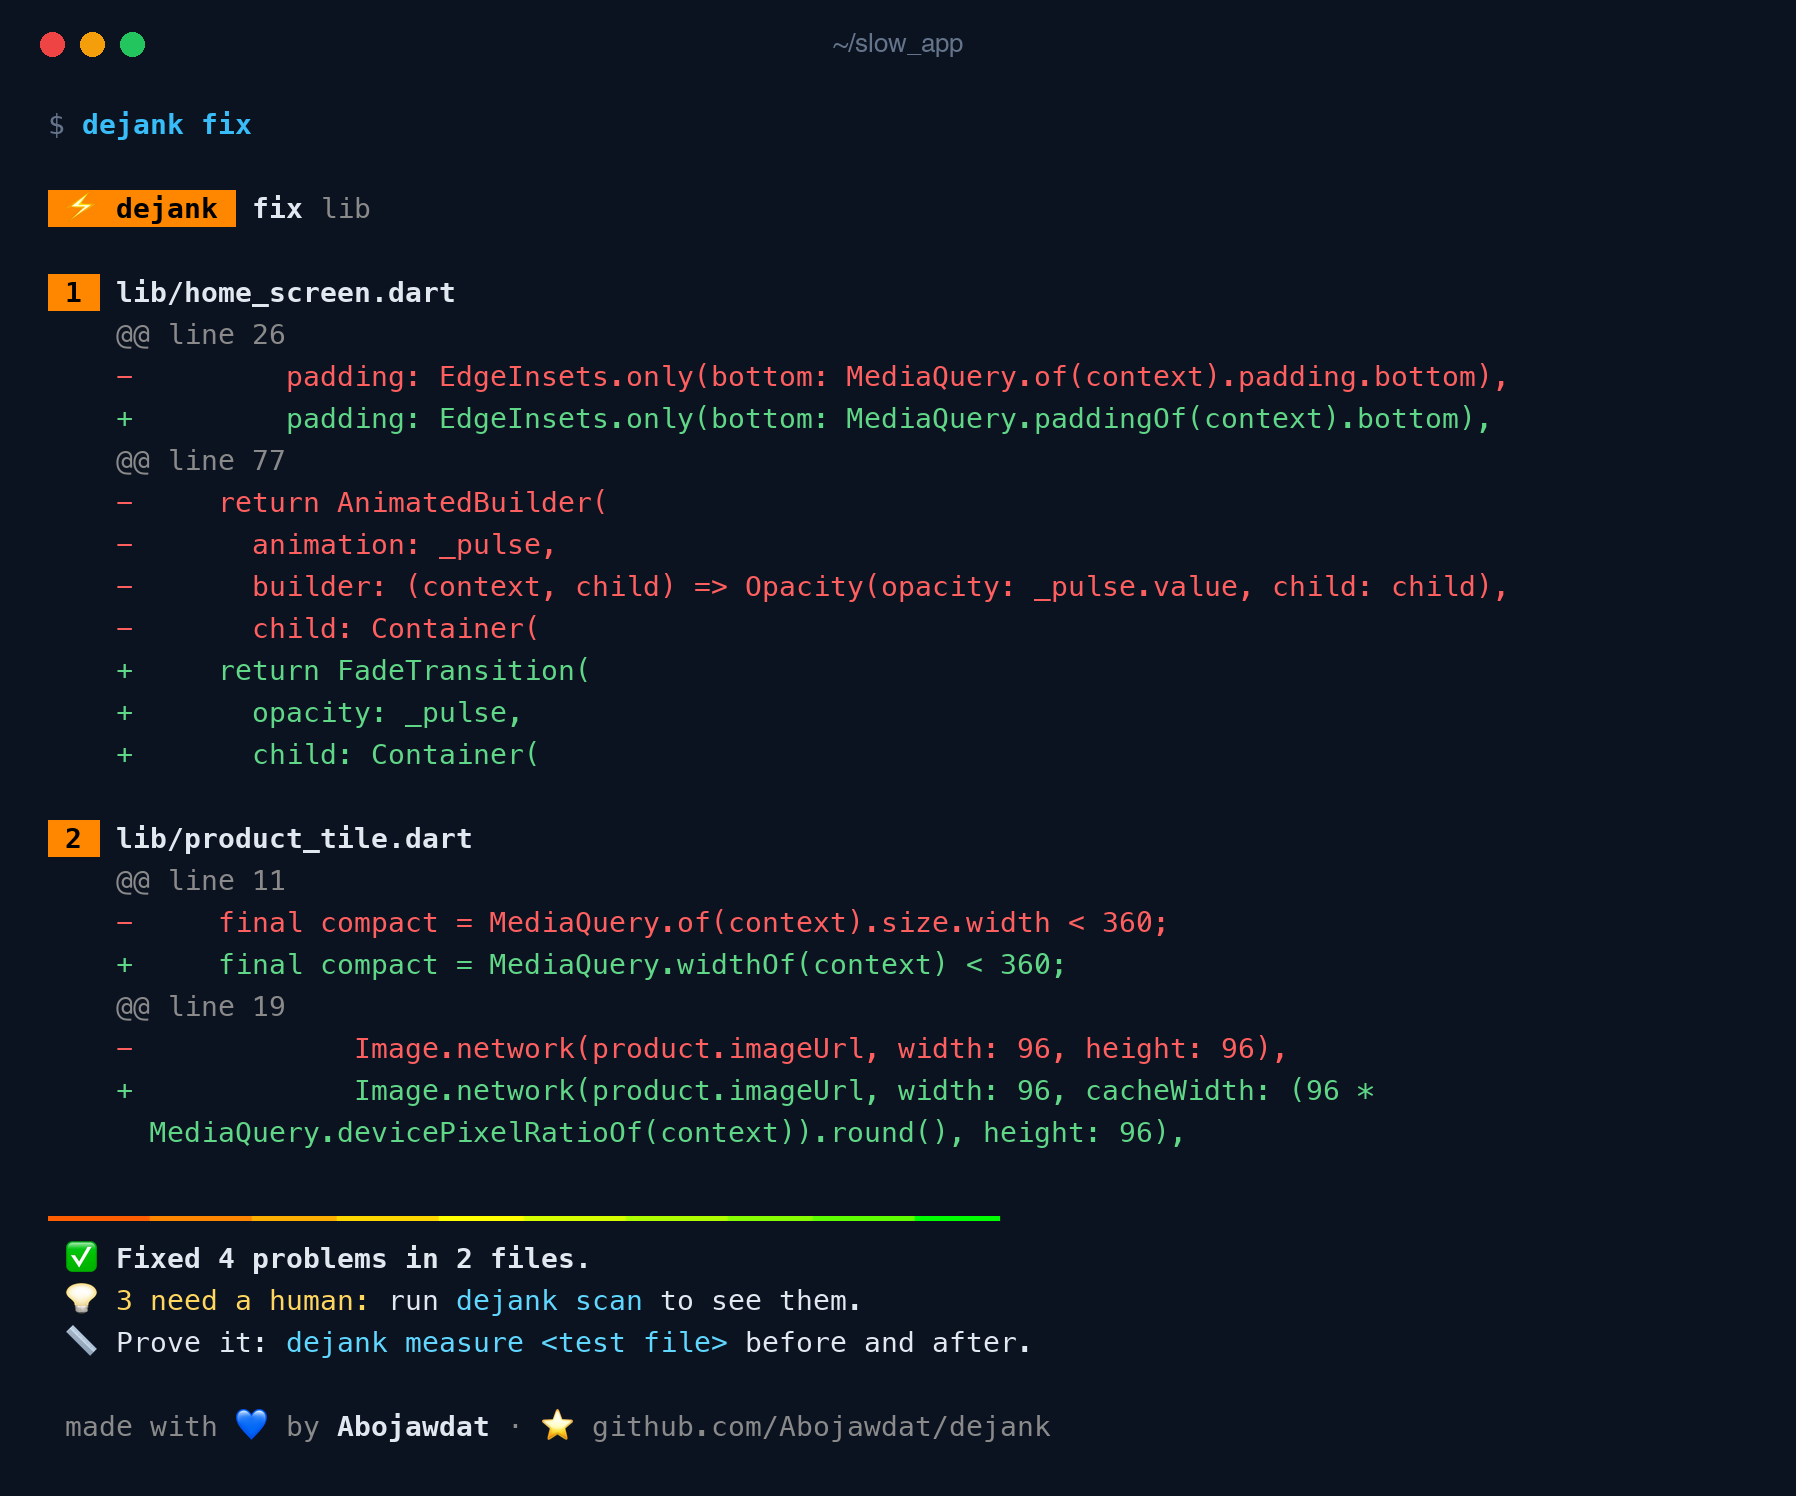
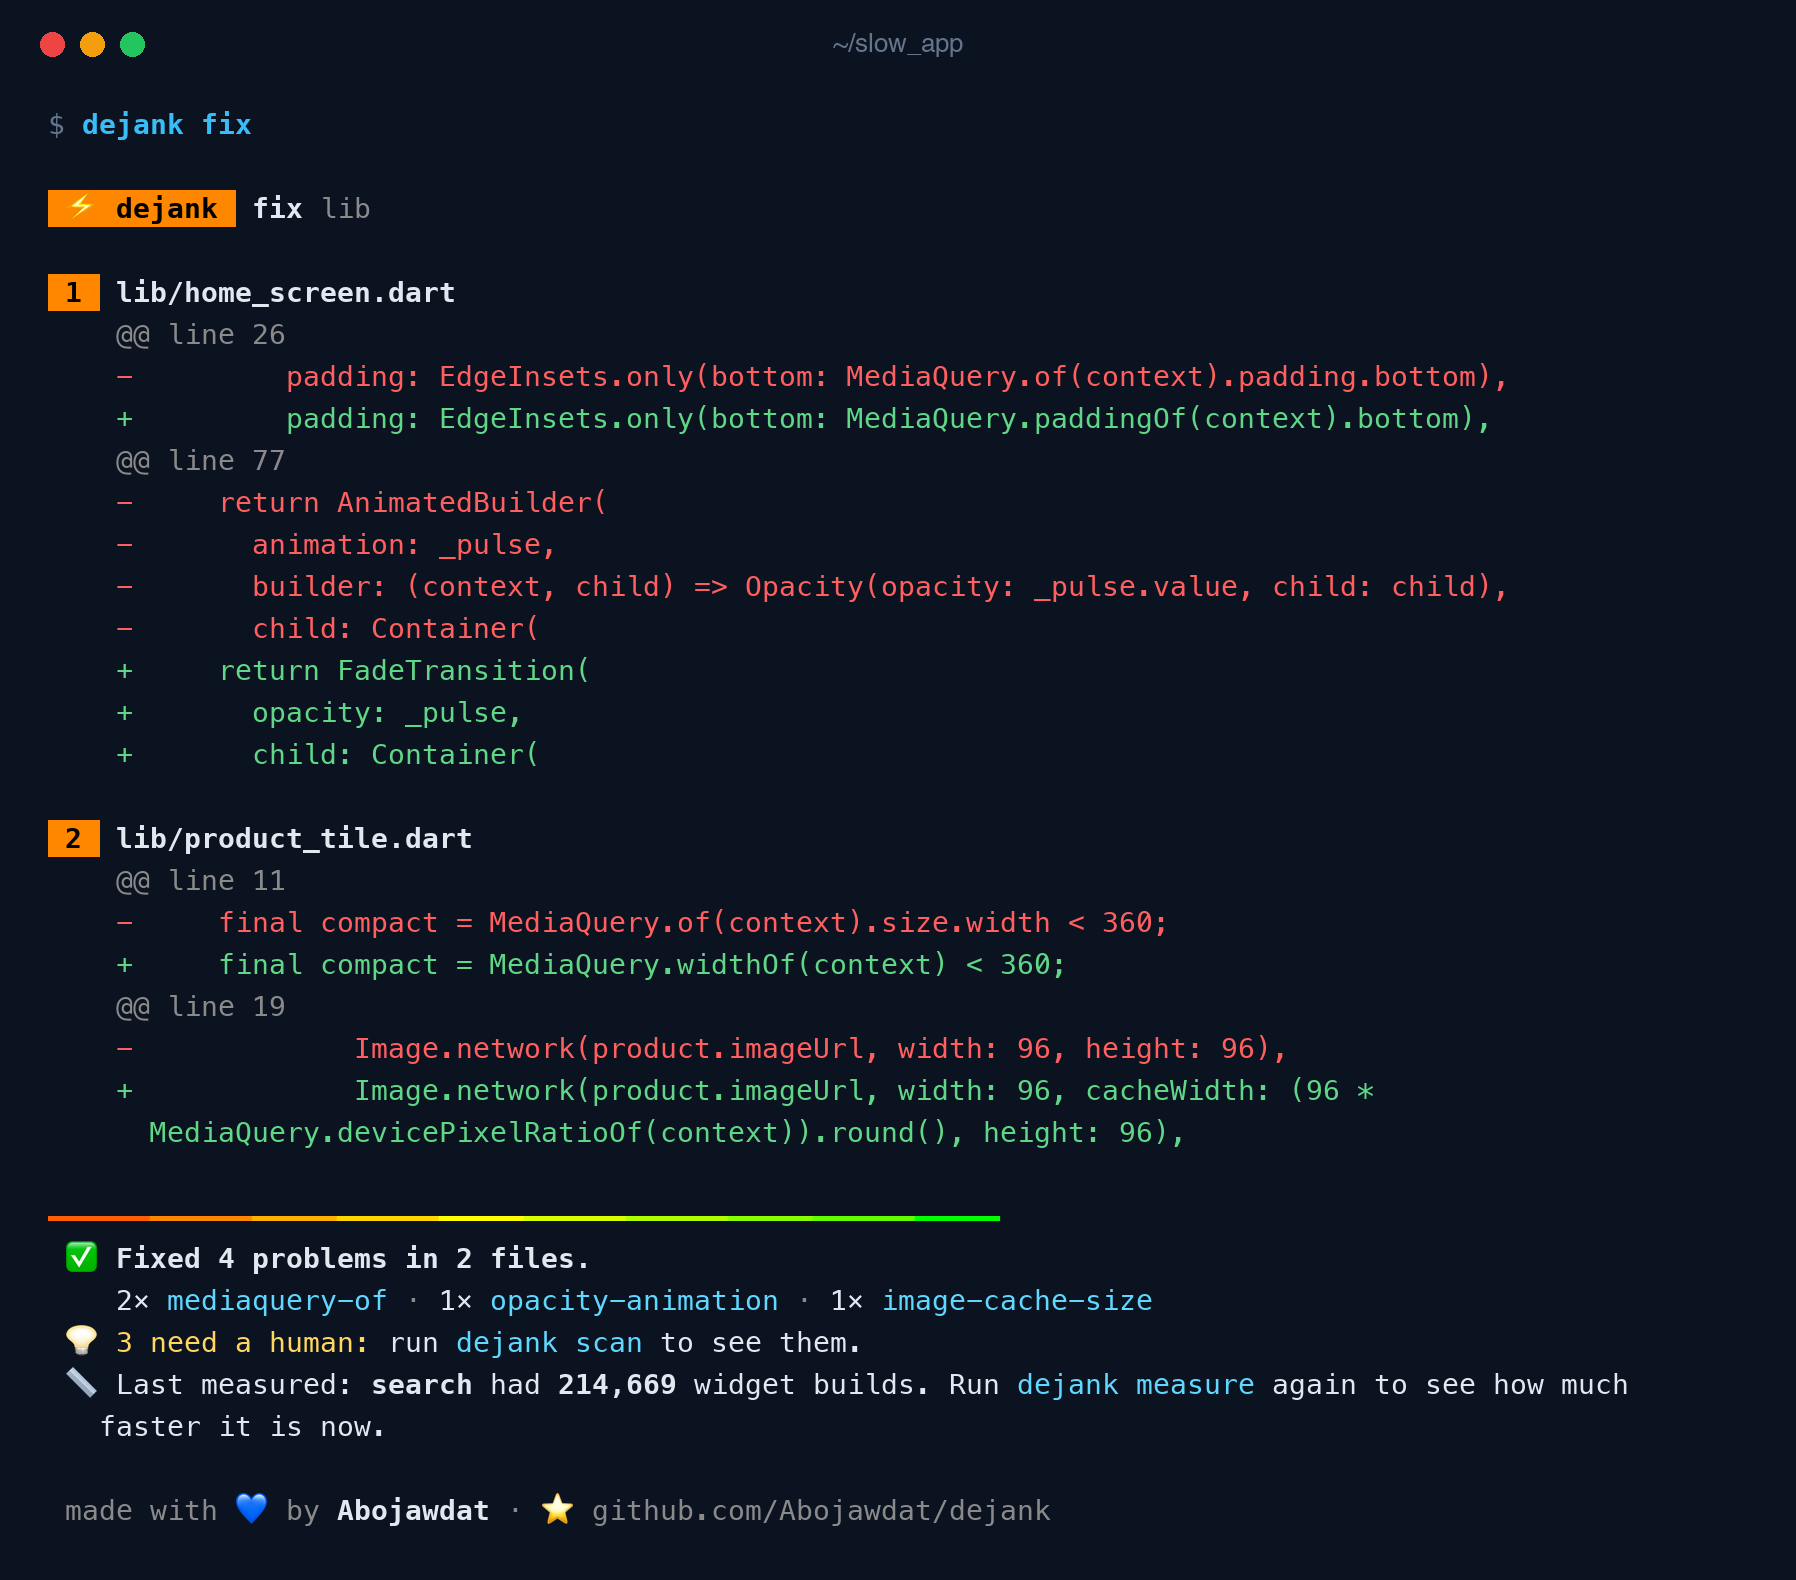
show stats in scan and fix

diff --git a/bin/dejank.dart b/bin/dejank.dart
@@ -64,6 +64,8 @@ class ScanCommand extends Command<void> {
         ' 🔎 ${_bold(_count(report.findings.length, 'problem'))}   🔧 ${_green('$auto auto-fixable')}   '
         '💡 ${_amber('$suggest need a human')}',
       );
+      final high = report.findings.where((f) => f.rule.impact == 'high').length;
+      print(' 🔴 ${_bold('$high')} high impact   🟡 ${_bold('${report.findings.length - high}')} medium impact');
       if (auto > 0) print(' 👉 Run ${_cyan('dejank fix')} to fix ${auto == 1 ? 'it' : 'those $auto'} now.');
     }
     _credit();
@@ -97,6 +99,7 @@ class FixCommand extends Command<void> {
     final broken = await wouldBreak(report, after);
     final dryRun = argResults!.flag('dry-run');
     var fixed = 0, files = 0;
+    final rules = <String, int>{};
     for (final MapEntry(key: path, value: findings) in byFile.entries) {
       if (broken.contains(path)) {
         stderr.writeln('Skipped ${p.relative(path)}: the fix would break it. This is a dejank bug, please report it.');
@@ -104,6 +107,9 @@ class FixCommand extends Command<void> {
       }
       if (!dryRun) File(path).writeAsStringSync(after[path]!);
       fixed += findings.length;
+      for (final f in findings) {
+        rules[f.rule.name] = (rules[f.rule.name] ?? 0) + 1;
+      }
       files++;
       final changes = diff(before[path]!, [for (final f in findings) ...f.edits]);
       if (!_fancy) {
@@ -139,8 +145,21 @@ class FixCommand extends Command<void> {
           ? ' ✨ ${_bold('Nothing to fix automatically.')}'
           : ' ✅ ${_bold('Fixed $summary.')}',
     );
+    if (rules.isNotEmpty) print('    ${rules.entries.map((e) => '${e.value}× ${_cyan(e.key)}').join(_dim(' · '))}');
     if (suggest > 0) print(' 💡 ${_amber('$suggest need a human:')} run ${_cyan('dejank scan')} to see them.');
-    if (fixed > 0 && !dryRun) print(' 📏 Prove it: ${_cyan('dejank measure <test file>')} before and after.');
+    if (fixed > 0 && !dryRun) {
+      final saved = Directory('.dejank').existsSync()
+          ? Directory('.dejank').listSync().whereType<File>().where((f) => f.path.endsWith('.json')).toList()
+          : <File>[];
+      if (saved.isEmpty) print(' 📏 Prove it: ${_cyan('dejank measure <test file>')} before and after.');
+      for (final f in saved) {
+        final run = Run.fromJson(jsonDecode(f.readAsStringSync()) as Map<String, dynamic>);
+        print(
+          ' 📏 Last measured: ${_bold(p.basenameWithoutExtension(f.path))} had ${_bold(thousands(run.total))} widget builds. '
+          'Run ${_cyan('dejank measure')} again to see how much faster it is now.',
+        );
+      }
+    }
     _credit();
   }
 }

diff --git a/lib/src/measure.dart b/lib/src/measure.dart
@@ -41,28 +41,28 @@ String table(String name, Run? before, Run now, {Set<String> own = const {}}) {
   }
 
   out.writeln('${name.padRight(28)}${before == null ? '' : 'before'.padLeft(10)}${'now'.padLeft(10)}');
-  row('widget builds', before?.total, now.total, _count);
+  row('widget builds', before?.total, now.total, thousands);
   int delta(String w) => ((now.builds[w] ?? 0) - (before?.builds[w] ?? 0)).abs();
   final all = {...now.builds.keys, ...?before?.builds.keys};
   final mine = all.where(own.contains);
   final widgets = (mine.isEmpty ? all : mine).where((w) => before == null || delta(w) > 0).toList()
     ..sort((a, b) => before == null ? now.builds[b]!.compareTo(now.builds[a]!) : delta(b).compareTo(delta(a)));
   for (final w in widgets.take(5)) {
-    row('  $w', before == null ? null : before.builds[w] ?? 0, now.builds[w] ?? 0, _count);
+    row('  $w', before == null ? null : before.builds[w] ?? 0, now.builds[w] ?? 0, thousands);
   }
 
   final frames = now.frames;
   if (frames != null) {
     final was = before?.frames;
-    row('frames', was?['count'], frames['count']!, _count);
+    row('frames', was?['count'], frames['count']!, thousands);
     row('  avg build', was?['buildMs'], frames['buildMs']!, _ms);
     row('  avg raster', was?['rasterMs'], frames['rasterMs']!, _ms);
-    row('  slow frames', was?['slow'], frames['slow']!, _count);
+    row('  slow frames', was?['slow'], frames['slow']!, thousands);
   }
   return out.toString();
 }
 
-String _count(num n) => n.round().toString().replaceAllMapped(RegExp(r'\B(?=(\d{3})+(?!\d))'), (_) => ',');
+String thousands(num n) => n.round().toString().replaceAllMapped(RegExp(r'\B(?=(\d{3})+(?!\d))'), (_) => ',');
 
 String _ms(num n) => '${n.toStringAsFixed(1)} ms';
 

diff --git a/CHANGELOG.md b/CHANGELOG.md
@@ -1,3 +1,8 @@
+## 0.1.2
+
+- `dejank scan` shows how many findings are high and medium impact.
+- `dejank fix` shows what it fixed per rule, and the last `dejank measure` numbers so you can measure again and see how much faster it is.
+
 ## 0.1.1
 
 - `shrinkwrap-in-column` now finds lists returned from `if` / `switch` and from state-management builders (`BlocBuilder`, Provider's `Consumer`, Riverpod, GetX, MobX), the usual BLoC screen shape. It no longer suggests `Expanded` for a `Column` inside a scroll view.
